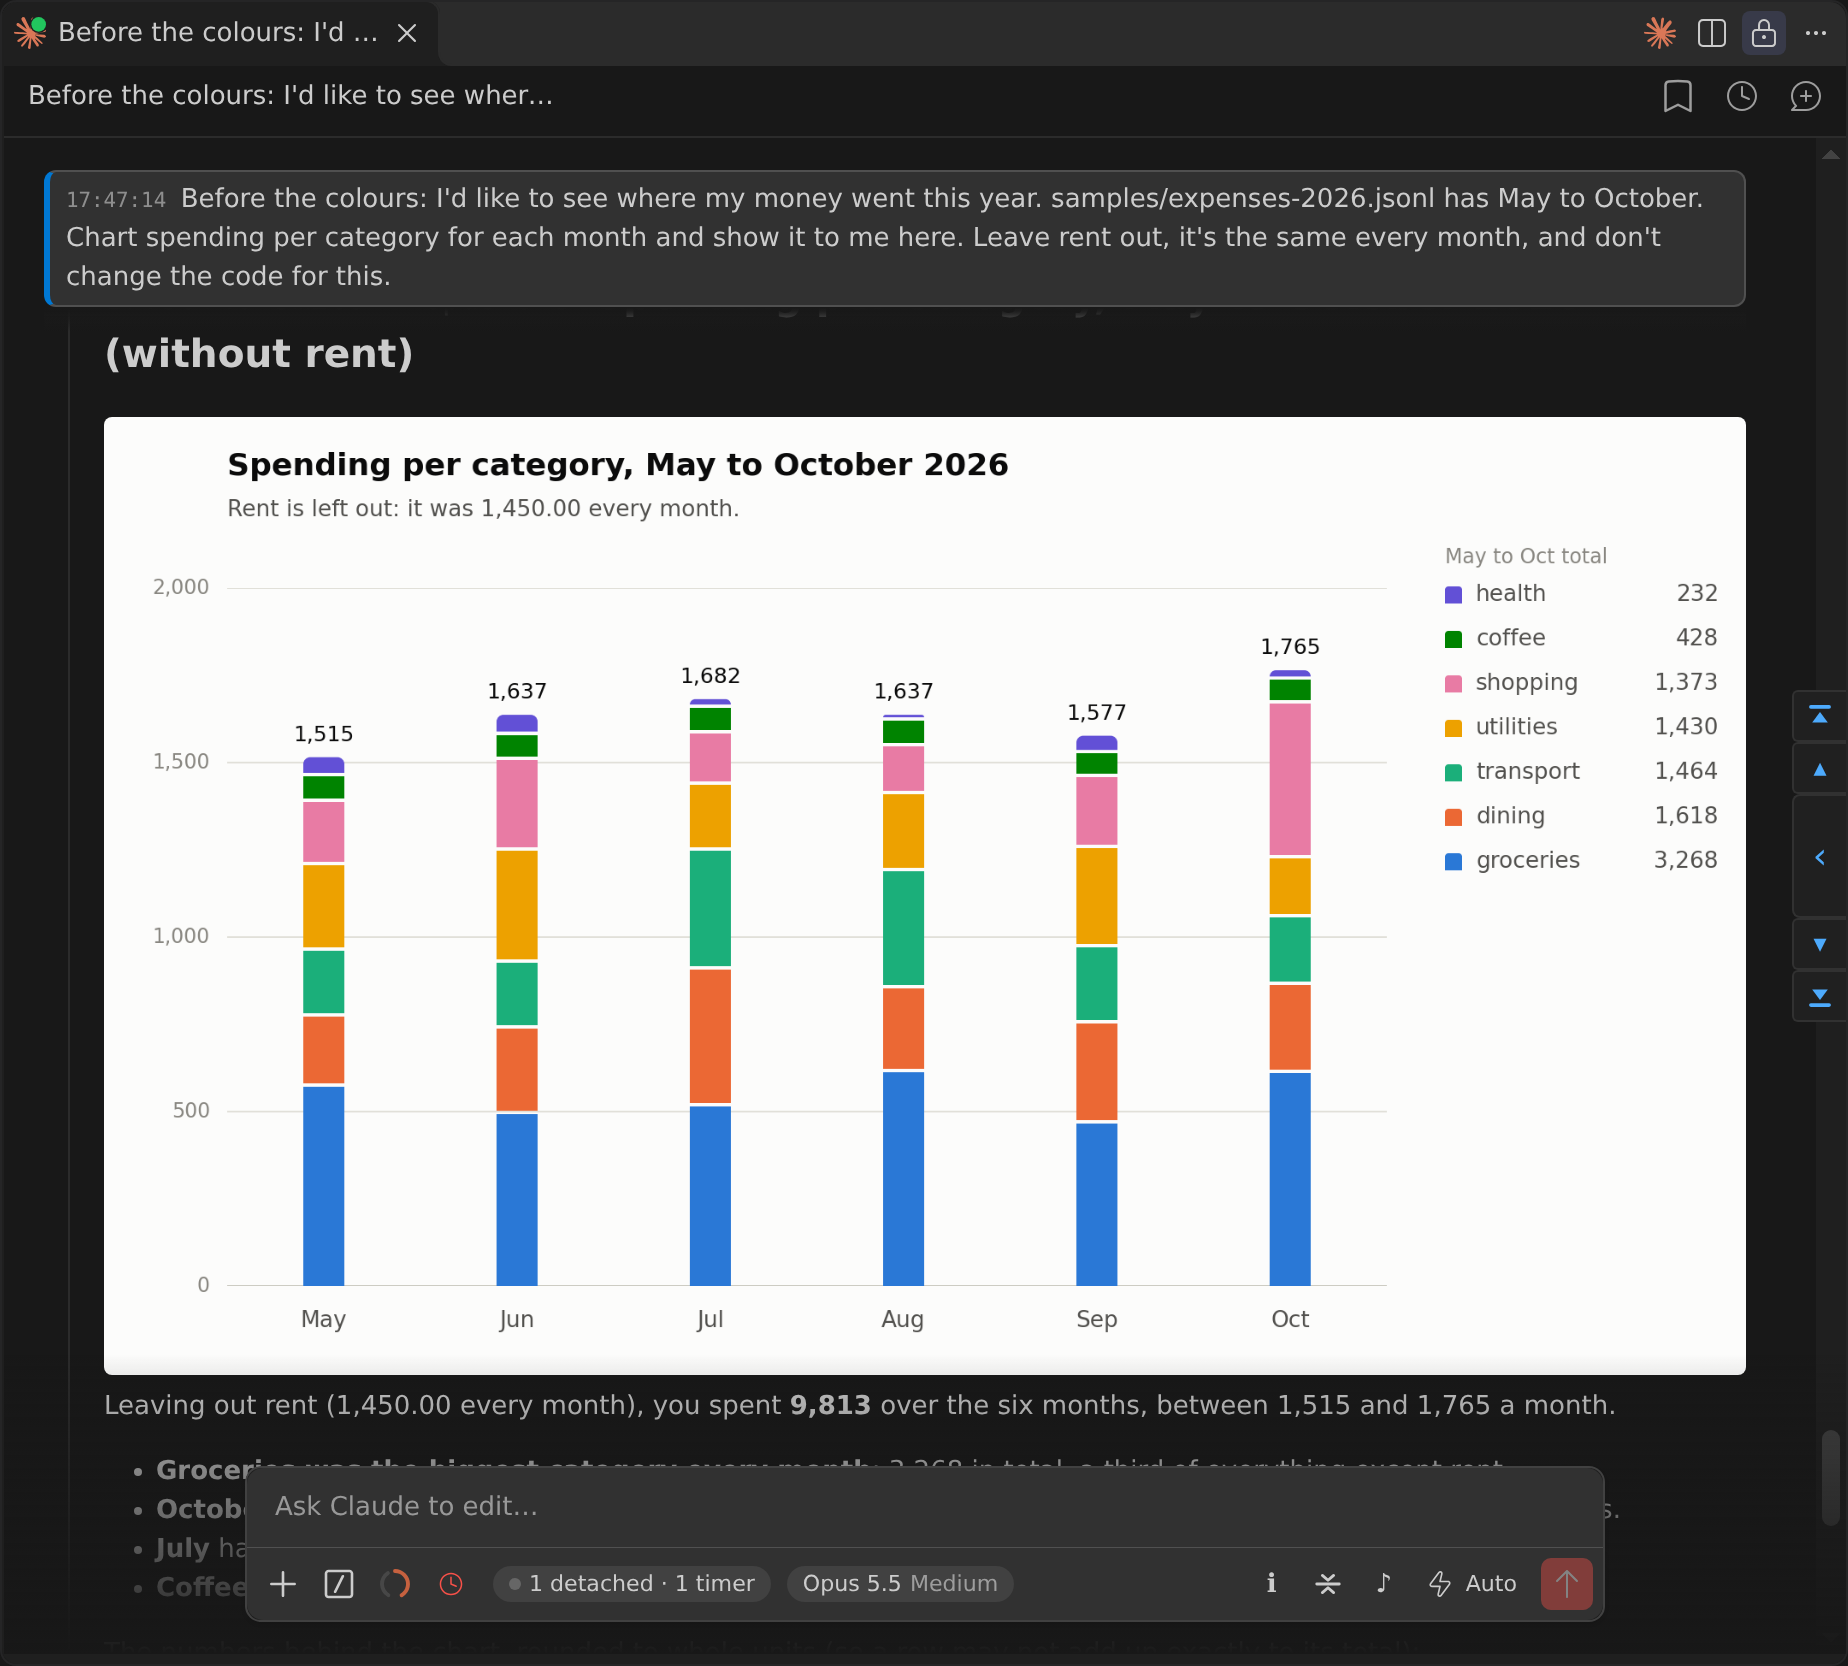
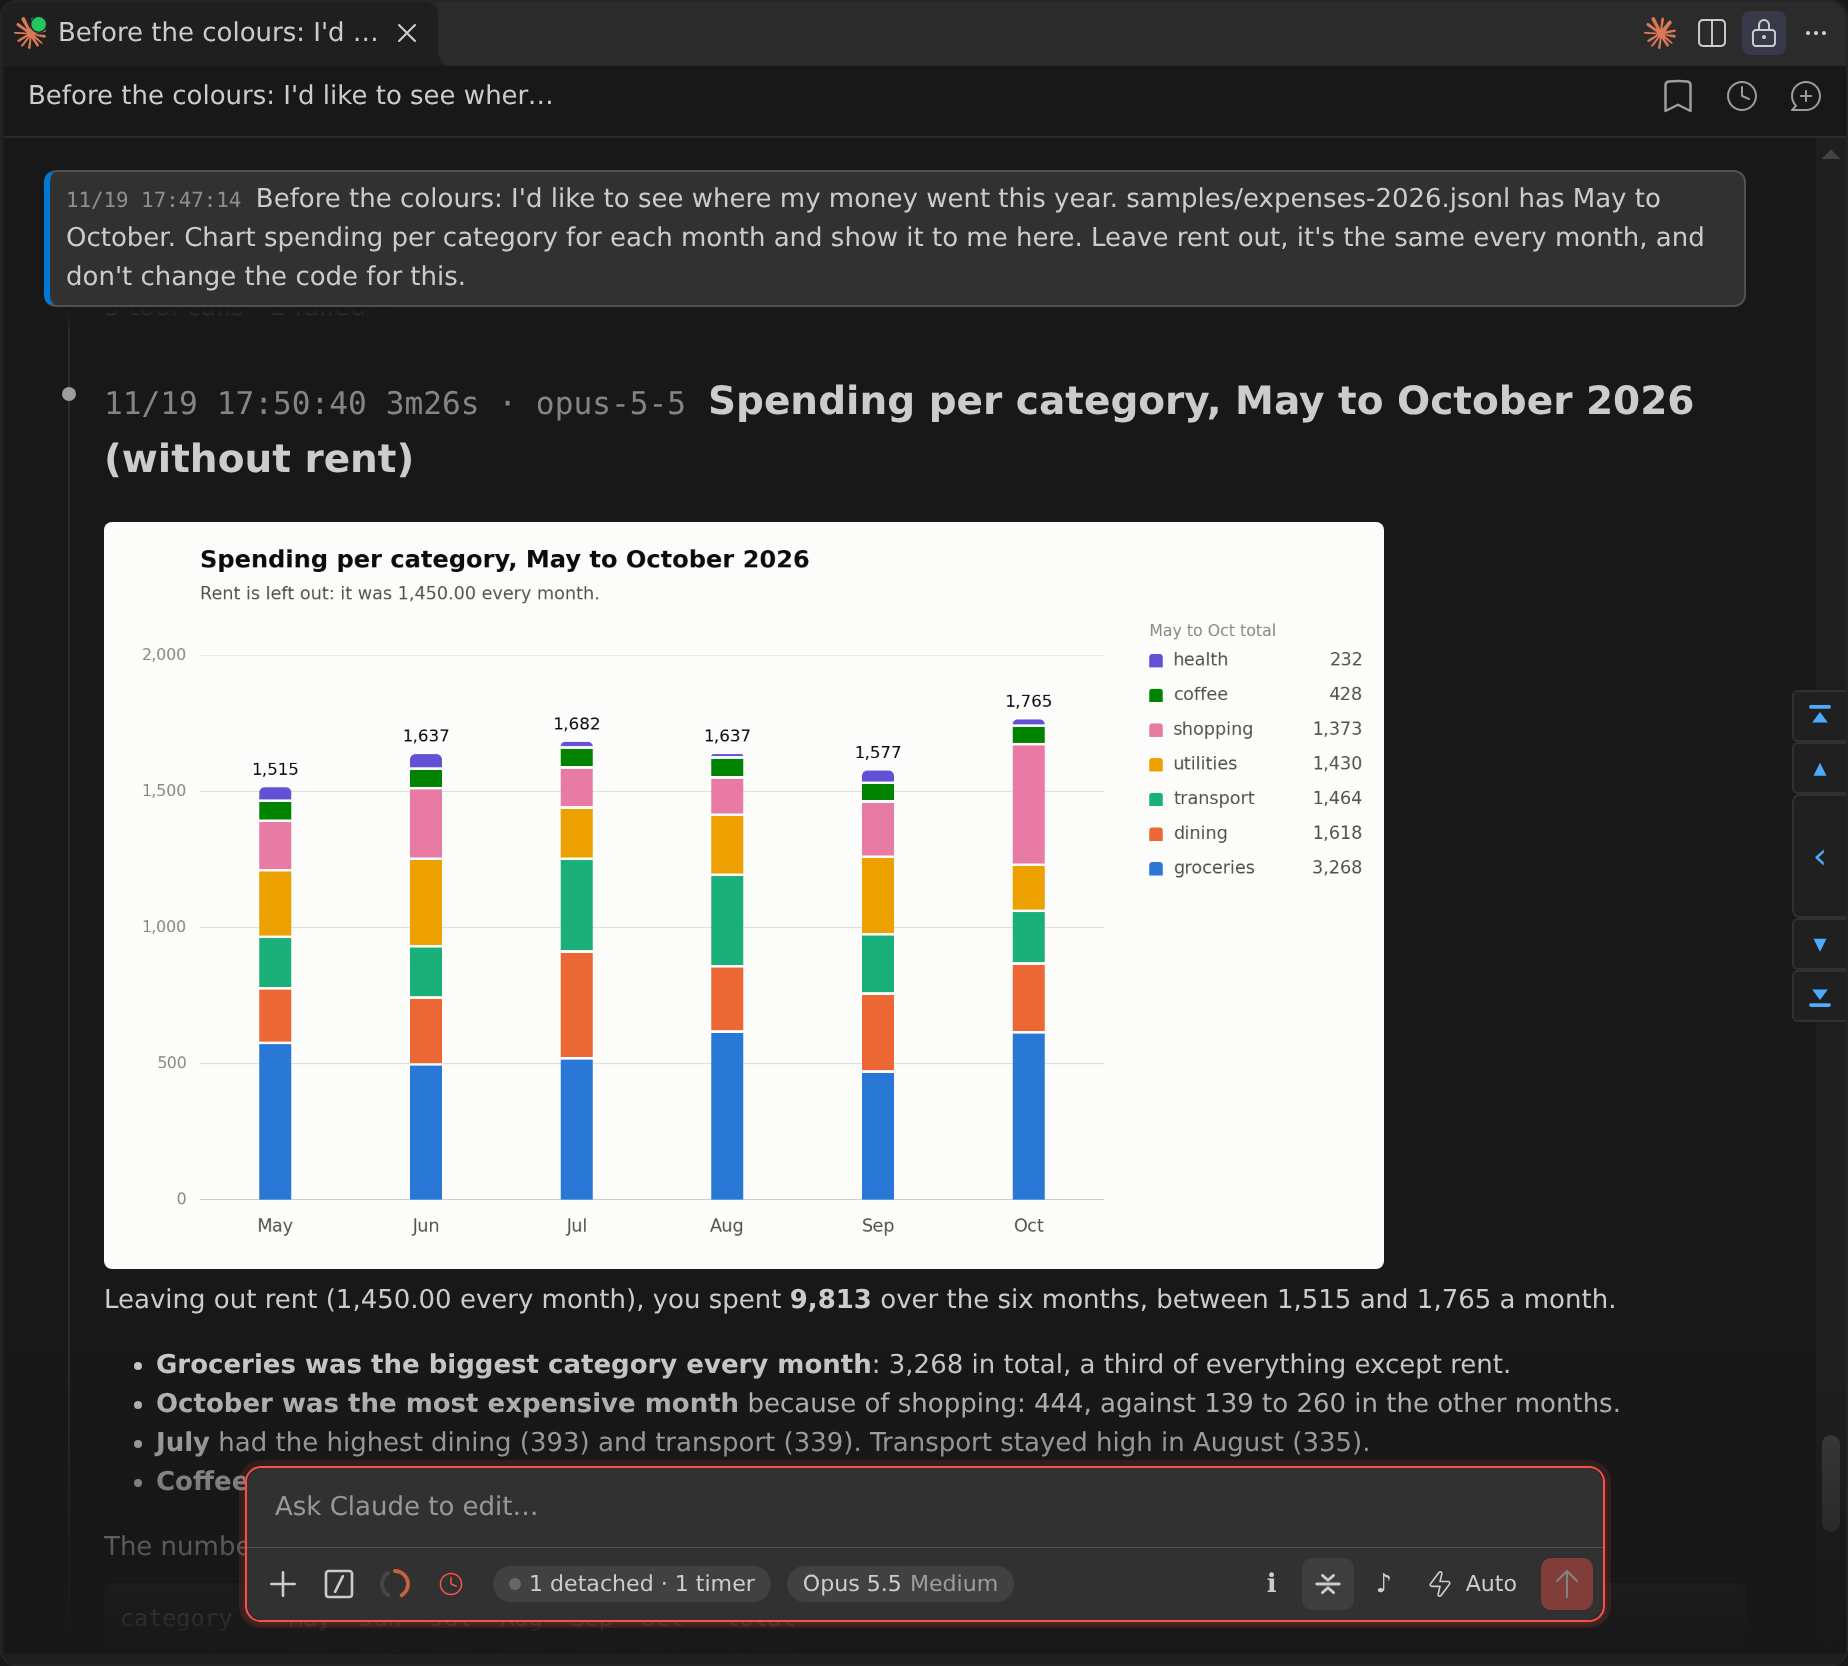
Draw reply images at most 640 by 480 px and show a scaled-down one at full size on a click
- Log when each session list is built and how long this extension spends on it, to time a slow list against Claude Code's log.
- Record 2.1.328 as the one Claude Code build verified; the older ones left this machine.

diff --git a/test/check.js b/test/check.js
@@ -2326,10 +2326,13 @@ console.log('\nimages in replies, the page');
 {
   const same = (got, want, msg) => { const g = JSON.stringify(got), w = JSON.stringify(want); if (g === w) ok(msg); else bad(`${msg}: got ${g}, want ${w}`); };
   const make = (off, sid = { v: 'abcdef01-0000-4000-8000-000000000009' }) => {
-    const posted = [], listeners = [], timers = [];
+    const posted = [], listeners = [], timers = [], keys = [], body = [];
     let signal = null;
+    const node = (tag) => { const n = { tag, style: {}, children: [], on: {} }; n.appendChild = (c) => { n.children.push(c); n.firstChild = n.children[0]; };
+      n.addEventListener = (type, fn) => { n.on[type] = fn; }; return n; };
     const env = {
-      window: { addEventListener: (type, fn) => { if (type === 'message') listeners.push(fn); } }, document: { documentElement: {} },
+      window: { addEventListener: (type, fn, capture) => { if (type === 'message') listeners.push(fn); if (type === 'keydown') keys.push({ fn, capture }); } },
+      document: { documentElement: {}, createElement: node, body: { appendChild: (n) => body.push(n) } },
       acquireVsCodeApi: () => ({ postMessage: (m) => posted.push(m) }),
       sigValue: (name) => (name === 'sessionId' ? sid.v : undefined),
       isOff: (k) => off && k === 'replyImages', console, setTimeout: (fn) => timers.push(fn),
@@ -2338,7 +2341,7 @@ console.log('\nimages in replies, the page');
     new vm.Script(`(function(){${fs.readFileSync(path.join(__dirname, '..', 'src', 'page', '94-reply-images.js'), 'utf8')}})()`,
       { filename: '94-reply-images.js' }).runInNewContext(env);
     const answer = (m) => listeners.forEach((fn) => fn({ data: { type: 'from-extension', message: m } }));
-    return { api: env.window, posted, answer, tick: () => (signal ? signal.value : null), timers };
+    return { api: env.window, posted, answer, tick: () => (signal ? signal.value : null), timers, keys, body };
   };
   const h = (type, props) => ({ type, props });
   const on = make(false);
@@ -2379,6 +2382,23 @@ console.log('\nimages in replies, the page');
   same([offData.type, JSON.stringify(offData).includes('base64'), offLocal.type, JSON.stringify(offLocal).includes('/tmp/chart.png'), offPage.posted.length,
     offPage.api.__cceImage(h, 'https://example.com/a.png', '').type],
     ['span', false, 'span', true, 0, 'a'], 'switched off, nothing is drawn or read: an image shows as its text and path, and a web address as a link');
+  const sized = make(false);
+  const img = sized.api.__cceImage(h, png, 'chart');
+  const st = img.props.style;
+  const el = (w, cw) => ({ naturalWidth: w, naturalHeight: w / 2, clientWidth: cw, clientHeight: cw / 2, src: png, alt: 'chart', style: {} });
+  const click = (t) => { const ev = { currentTarget: t, stopped: 0, preventDefault() {}, stopPropagation() { ev.stopped++; } }; img.props.onClick(ev); return ev; };
+  const fits = el(400, 400), big = el(1600, 640);
+  img.props.onMouseEnter({ currentTarget: fits });
+  img.props.onMouseEnter({ currentTarget: big });
+  const small = click(fits), large = click(big);
+  const view = sized.body[0];
+  const shownAt = view && view.style.display, shownSrc = view && view.firstChild.src;
+  const esc = { key: 'Escape', stopped: false, preventDefault() {}, stopImmediatePropagation() { esc.stopped = true; } };
+  sized.keys.forEach((k) => k.fn(esc));
+  same([st.maxWidth, st.maxHeight, st.width, st.height, fits.style.cursor, big.style.cursor, small.stopped, sized.body.length, large.stopped, shownAt, shownSrc,
+    sized.keys.length === 1 && sized.keys[0].capture === true, esc.stopped, view && view.style.display],
+    ['min(100%, 640px)', 'min(480px, 70vh)', 'auto', 'auto', '', 'zoom-in', 0, 1, 1, 'flex', png, true, true, 'none'],
+    'an image is shown at most 640 by 480, one shown smaller than it is opens over the conversation on a click, and Escape closes it without reaching the panel');
 }
 
 console.log('\ninstalled copy');
@@ -8321,7 +8341,7 @@ console.log('\nbackground sessions left out of the session list');
   }
   const extSrc = fs.readFileSync(path.join(__dirname, '..', 'extension.js'), 'utf8');
   const setting = require('../package.json').contributes.configuration.properties['claudeCodePlus.hideBackgroundSessions'];
-  if (/globalThis\.__cceListedSessions = \(entries, cwd\) => \{\s*if \(removed\(\)\) return entries;\s*const listed = cfg\(\)\.get\(HIDE_BG_SETTING, true\) === false \? entries : bgSessions\.withoutBackground\(entries, cwd\);/.test(extSrc)
+  if (/globalThis\.__cceListedSessions = \(entries, cwd\) => \{\s*if \(removed\(\)\) return entries;\s*(?:const t0 = Date\.now\(\);\s*)?const listed = cfg\(\)\.get\(HIDE_BG_SETTING, true\) === false \? entries : bgSessions\.withoutBackground\(entries, cwd\);/.test(extSrc)
       && /if \(e\.affectsConfiguration\(HIDE_BG_SETTING\)\) \{\s*try \{ if \(typeof globalThis\.__cceSessionsChanged === 'function'\) globalThis\.__cceSessionsChanged\(\);/.test(extSrc)
       && setting && setting.default === true) {
     ok('background sessions are left out by default, a setting turns that off, and flipping it makes every panel read the list again');

diff --git a/src/page/94-reply-images.js b/src/page/94-reply-images.js
@@ -18,7 +18,10 @@
   var IMG_LOCAL = /^(?:file:\/\/|\/|[A-Za-z]:[\\/])/;
   var IMG_WEB = /^https?:\/\//i;
   var IMG_KEEP = 80;
-  var IMG_STYLE = { maxWidth: '100%', height: 'auto', display: 'block', margin: '6px 0', borderRadius: '4px' };
+  /* Matplotlib's default figure is 640 by 480 px at 100 dpi, so a chart saved at a higher dpi shrinks to that size with
+     its text still readable. */
+  var IMG_STYLE = { maxWidth: 'min(100%, 640px)', maxHeight: 'min(480px, 70vh)', width: 'auto', height: 'auto', display: 'block',
+    margin: '6px 0', borderRadius: '4px' };
   var IMG_BOX = {
     display: 'block', margin: '6px 0', padding: '8px 10px', fontSize: '0.92em', lineHeight: '1.5', borderRadius: '4px',
     background: 'var(--vscode-textCodeBlock-background, rgba(255,255,255,0.05))',
@@ -72,6 +75,48 @@
     catch (e) { delete imgWaiting[id]; imgKeep(src, { state: 'error', reason: 'The extension could not be asked for it.' }); }
     return imgFound[src];
   };
+  /* Clicking a scaled-down image shows it over the conversation, as large as the panel allows, until another click or
+     Escape. That Escape never reaches the panel, where it would stop the running turn. */
+  var IMG_VIEW = null;
+  var imgShrunk = function(img){
+    return !!img && img.naturalWidth > 0 && (img.naturalWidth > img.clientWidth + 1 || img.naturalHeight > img.clientHeight + 1);
+  };
+  var imgClose = function(){ if (IMG_VIEW) IMG_VIEW.style.display = 'none'; };
+  var imgOpen = function(src, alt){
+    if (!IMG_VIEW) {
+      IMG_VIEW = document.createElement('div');
+      IMG_VIEW.id = 'cce-img-view';
+      IMG_VIEW.style.cssText = 'position:fixed;top:0;left:0;right:0;bottom:0;z-index:2147483000;display:none;align-items:center;'
+        + 'justify-content:center;background:rgba(0,0,0,0.78);cursor:zoom-out;';
+      var shown = document.createElement('img');
+      shown.style.cssText = 'max-width:calc(100vw - 32px);max-height:calc(100vh - 32px);object-fit:contain;border-radius:4px;';
+      IMG_VIEW.appendChild(shown);
+      IMG_VIEW.addEventListener('click', imgClose);
+      window.addEventListener('keydown', function(ev){
+        if (!IMG_VIEW || IMG_VIEW.style.display === 'none' || ev.key !== 'Escape') return;
+        ev.preventDefault();
+        ev.stopImmediatePropagation();
+        imgClose();
+      }, true);
+      document.body.appendChild(IMG_VIEW);
+    }
+    IMG_VIEW.firstChild.src = src;
+    IMG_VIEW.firstChild.alt = alt || '';
+    IMG_VIEW.style.display = 'flex';
+  };
+  var imgDrawn = function(h, src, label, title){
+    return h('img', { src: src, alt: label, title: title, style: IMG_STYLE,
+      onMouseEnter: function(ev){ try { var t = ev.currentTarget; t.style.cursor = imgShrunk(t) ? 'zoom-in' : ''; } catch (e) {} },
+      onClick: function(ev){
+        try {
+          var t = ev.currentTarget;
+          if (!imgShrunk(t)) return;
+          ev.preventDefault();
+          ev.stopPropagation();
+          imgOpen(t.currentSrc || t.src, t.alt);
+        } catch (e) {}
+      } });
+  };
   var imgNote = function(h, src, text){
     return h('span', { style: IMG_BOX, title: src, children: [
       h('span', { style: { display: 'block' }, children: [text] }),
@@ -101,11 +146,11 @@
       if (IMG_WEB.test(src)) return h('a', { href: src, title: src, children: [label || src] });
       if (isOff('replyImages')) return IMG_DATA.test(src) || IMG_LOCAL.test(src) ? imgText(h, src, label) : null;
       imgRenders();
-      if (IMG_DATA.test(src)) return h('img', { src: src, alt: label, style: IMG_STYLE });
+      if (IMG_DATA.test(src)) return imgDrawn(h, src, label, void 0);
       if (!IMG_LOCAL.test(src)) return null;
       var got = imgFound[src];
       if (!got) got = imgAsk(src);
-      if (got.state === 'ok') return h('img', { src: got.url, alt: label, title: label || src, style: IMG_STYLE });
+      if (got.state === 'ok') return imgDrawn(h, got.url, label, label || src);
       return imgNote(h, src, got.state === 'loading' ? 'Loading the image…' : got.reason);
     } catch (e) { return null; }
   };

diff --git a/extension.js b/extension.js
@@ -1262,11 +1262,22 @@ function start(context, log, renamed, handing = false) {
     pinsWatch.on('error', () => { try { pinsWatch.close(); } catch (_) { /* closed */ } pinsWatch = null; });
   } catch (_) { /* the periodic refresh still carries a change across */ }
   /* Read by the patched host each time it builds the session list (src/bgsessions.js). */
+  /* The first few lists a window builds, and any later one this extension is slow on, are logged with the time, to set
+     against the moment Claude Code's log shows the panel asking for the list. */
+  let listsLogged = 0;
   globalThis.__cceListedSessions = (entries, cwd) => {
     if (removed()) return entries;
+    const t0 = Date.now();
     const listed = cfg().get(HIDE_BG_SETTING, true) === false ? entries : bgSessions.withoutBackground(entries, cwd);
-    return enabled() ? stewardMarks.marked(listed, stewardTable(), stewardListed, Date.now(),
+    const out = enabled() ? stewardMarks.marked(listed, stewardTable(), stewardListed, Date.now(),
       (id) => (readTitles.titles({ sessionId: id }) || {}).custom || '') : listed;
+    const ms = Date.now() - t0;
+    if (listsLogged < 8 || ms >= 200) {
+      listsLogged++;
+      log.appendLine(`${new Date().toISOString().slice(11, 23)} session list built: ${Array.isArray(entries) ? entries.length : '?'} sessions, `
+        + `${Array.isArray(out) ? out.length : '?'} shown, ${ms} ms in this extension`);
+    }
+    return out;
   };
   /* Read by the patched host each time it works out which conversations are in use and so not to be archived. */
   globalThis.__ccePinnedIds = () => {

diff --git a/README.md b/README.md
@@ -77,7 +77,7 @@ The extension works by editing files inside the installed Claude Code extension.
 VS Code window twice after installing. Run `Claude Code Plus: Show Status` for the patch
 status. In a Remote SSH window, install on the remote.
 
-Verified against Claude Code 2.1.325, 2.1.326, 2.1.327 and 2.1.328.
+Verified against Claude Code 2.1.328.
 
 ## Other features
 
@@ -87,7 +87,7 @@ Verified against Claude Code 2.1.325, 2.1.326, 2.1.327 and 2.1.328.
 | --- | --- |
 | Timestamps | Times from the transcript on every message and reply block, and `start→result` on tool calls. Claude Code's own message times are hidden while these are on. |
 | Your time zone for Claude | When Claude runs on a machine in another time zone, as with Remote SSH, it is told yours, so it gives you times in your zone. |
-| Images in replies | An image Claude gives by absolute path or `file://` address (PNG, JPEG, GIF, WebP or SVG, up to 8 MB) and a `data:` image are drawn in the reply; an image at a web address stays a link. Claude is told how to give one: save it in the conversation's own folder, and download an image from the web there first. `claudeCodePlus.show.replyImages` turns both off. |
+| Images in replies | An image Claude gives by absolute path or `file://` address (PNG, JPEG, GIF, WebP or SVG, up to 8 MB) and a `data:` image are drawn in the reply, at most 640 by 480 pixels; click one drawn smaller than its own size to see it as large as the panel allows. An image at a web address stays a link. Claude is told how to give one: save it in the conversation's own folder, and download an image from the web there first. `claudeCodePlus.show.replyImages` turns both off. |
 | Reply figures | `2m10s · ctx 33% · cost $0.42 · opus-5 high` on each reply shows turn duration, how much of the context window is in use, the conversation's cost so far, model and effort. |
 | Sub-agent tags and filters | Each sub-agent's messages are tagged with its task, such as `#look up tomorrow's weather`. A filter in the footer shows only the main thread or one sub-agent. |
 | Conversation navigation | A handle at the right edge of the panel opens a list of your messages by time and first words, with the compaction points marked. Filter the list, click a row to scroll there, step with the arrows or `,` and `.`, or jump to the top or bottom. |
